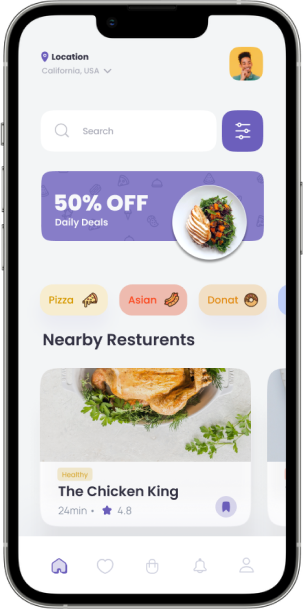
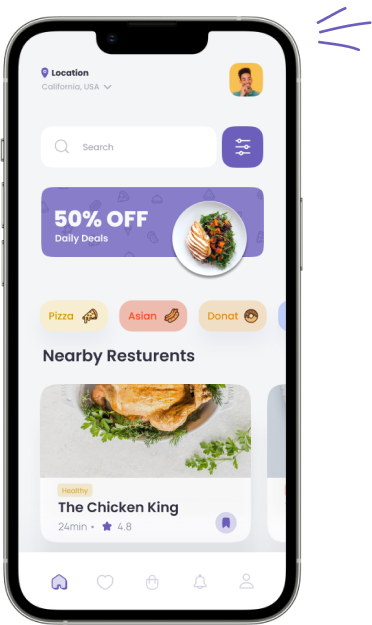
ts-2 hero pp done

diff --git a/t-one/src/components/molecules/AppTextBlock/AppTextBlock.tsx b/t-one/src/components/molecules/AppTextBlock/AppTextBlock.tsx
@@ -7,8 +7,15 @@ import Arrow_Image from "../../../assets/images/svgs/app_arrow.svg";
 
 const AppTextBlock = () => {
     return (
-        <div className={styles.container}>
-            <Title text={'Premium\u00A0Quality For\u00A0Your\u00A0Health'} selectStart={8} selectEnd={14} />
+        <div className={styles['app_text_block']}>
+            <Title
+                text={'Premium\u00A0Quality For\u00A0Your\u00A0Health'}
+                selectStart={8}
+                selectEnd={14}
+                fontWeight={700}
+                fontSize={50}
+                lineHeight={58}
+            />
             <div className={styles['list_wrapper']}>
                 <List texts={[
                     'Premium quality food is made with ingredients that are packed with essential vitamins, minerals.',
@@ -16,7 +23,7 @@ const AppTextBlock = () => {
                 ]} />
             </div>
             <div className={styles['button_wrapper']}>
-                <Button text={'Download'} type={ButtonType.Primary} />
+                <Button text={'Download'} type={ButtonType.Primary} needArrow={true} />
                 <img
                     src={Arrow_Image}
                     alt="Grapefruit slice atop a pile of other slices"

diff --git a/t-one/src/components/organisms/AppBlock/AppBlock.tsx b/t-one/src/components/organisms/AppBlock/AppBlock.tsx
@@ -1,22 +1,15 @@
 import AppTextBlock from '../../molecules/AppTextBlock/AppTextBlock'
 import styles from './AppBlock.module.css'
 import Phone_Image from "../../../assets/images/pngs/mobile_phone.png";
-import PhoneRays_Image from "../../../assets/images/svgs/phone_rays.svg";
 
 const AppBlock = () => {
     return (
-        <div className={styles.container}>
+        <div className={styles['app_block']}>
             <div className={styles['images']}>
 
                 <div className={styles['images_phone']}>
                     <img
                         src={Phone_Image}
-                        alt="Grapefruit slice atop a pile of other slices"
-                    />
-                </div>
-                <div className={styles['images_rays']}>
-                    <img
-                        src={PhoneRays_Image}
                         alt="Grapefruit slice atop a pile of other slices"
                     />
                 </div>

diff --git a/t-one/src/components/atoms/Title/Title.module.scss b/t-one/src/components/atoms/Title/Title.module.scss
@@ -1,11 +1,4 @@
-@font-face {
-    font-family: 'Poppins';
-    font-style: normal;
-    font-weight: 600;
-    font-display: swap;
-    src: url(../../../assets/fonts/poppins_semibold.woff2) format('woff2');
-    unicode-range: U+0000-00FF, U+0131, U+0152-0153, U+02BB-02BC, U+02C6, U+02DA, U+02DC, U+0304, U+0308, U+0329, U+2000-206F, U+2074, U+20AC, U+2122, U+2191, U+2193, U+2212, U+2215, U+FEFF, U+FFFD;
-}
+@import url('https://fonts.googleapis.com/css2?family=Poppins:ital,wght@0,400;0,500;0,600;0,700;1,100;1,400;1,500;1,600;1,700&family=Public+Sans:wght@400..900&display=swap');
 
 .title_font {
     font-family: "Poppins", sans-serif;
@@ -33,7 +26,7 @@ span {
     }
 }
 
-$weights: 100, 200, 300, 400, 500, 600;
+$weights: 100, 200, 300, 400, 500, 600, 700;
 
 @each $size in $weights {
     .fw_#{$size} {

diff --git a/t-one/src/components/atoms/Button/Button.tsx b/t-one/src/components/atoms/Button/Button.tsx
@@ -1,5 +1,6 @@
 import ButtonType, { ButtonProps } from "../../../types/ButtonProps";
 import styles from "./Button.module.css";
+import ButtonImage from '../../../assets/images/pngs/btn_arrow.png'
 
 const Button = (props: ButtonProps) => {
     const typeMap = (type: ButtonType): string => {
@@ -11,8 +12,9 @@ const Button = (props: ButtonProps) => {
     };
 
     return (
-        <button className={`${styles.button} ${typeMap(props.type)}`}>
+        <button className={`${styles['button']} ${typeMap(props.type)}`}>
             {props.text}
+            {props.needArrow && <img className={styles['btn_icon']} src={ButtonImage} alt="" />}
         </button>
     );
 };

diff --git a/t-one/src/components/atoms/List/List.tsx b/t-one/src/components/atoms/List/List.tsx
@@ -2,15 +2,13 @@ import styles from './List.module.css'
 
 const List = (props: { texts: string[] }) => {
     return (
-        <div>
-            <ul className={styles.list}>
-                {props.texts.map(text =>
-                    <li className={styles['list-item']} key={text}>
-                        {text}
-                    </li>
-                )}
-            </ul>
-        </div>
+        <ul className={styles.list}>
+            {props.texts.map(text =>
+                <li className={styles['list-item']} key={text}>
+                    {text}
+                </li>
+            )}
+        </ul>
     )
 }
 

diff --git a/t-one/src/components/molecules/HeroTextBlock/HeroTextBlock.tsx b/t-one/src/components/molecules/HeroTextBlock/HeroTextBlock.tsx
@@ -27,8 +27,8 @@ const HeroTextBlock = () => {
             </div>
 
             <div className={styles["cta_buttons"]}>
-                <Button text={"Get Started"} type={ButtonType.Primary} />
-                <Button text={"Go Pro"} type={ButtonType.Ghost} />
+                <Button text={"Get Started"} type={ButtonType.Primary} needArrow={false} />
+                <Button text={"Go Pro"} type={ButtonType.Ghost} needArrow={false} />
             </div>
 
             <div className={styles['before_wrapper']}>

diff --git a/t-one/src/components/atoms/List/List.module.css b/t-one/src/components/atoms/List/List.module.css
@@ -10,7 +10,12 @@
 .list {
     display: flex;
     flex-direction: column;
-    row-gap: 28px;
+    row-gap: 26px;
+    list-style: inside;
+}
+
+.list>li::marker {
+    content: '•';
 }
 
 .list-item {
@@ -18,7 +23,10 @@
     font-size: 20px;
     font-weight: 400;
     line-height: 31px;
-    letter-spacing: 0px;
+    letter-spacing: -0.005em;
     text-align: left;
     color: #676767;
+    padding-inline-start: 10px;
+    list-style-position: outside;
+    max-width: 510px;
 }

diff --git a/t-one/src/components/molecules/AppTextBlock/AppTextBlock.module.css b/t-one/src/components/molecules/AppTextBlock/AppTextBlock.module.css
@@ -1,20 +1,22 @@
-.container {
+.app_text_block {
     width: 560px;
     height: 555px;
     display: flex;
     flex-direction: column;
+    padding-top: 90px;
 }
 
 .list_wrapper {
-    margin-top: 66px;
+    margin-top: 67px;
+    padding-left: 19px;
 }
 
 .button_wrapper {
-    margin-top: 42px;
+    margin-top: 63px;
 }
 
-.button_wrapper img {
+button+ img {
     position: relative;
-    top: 70px;
-    right: 30px;
+    top: -8px;
+    left: 160px;
 }

diff --git a/t-one/src/components/organisms/AppBlock/AppBlock.module.css b/t-one/src/components/organisms/AppBlock/AppBlock.module.css
@@ -1,24 +1,17 @@
-.container {
+.app_block {
     display: flex;
     width: 1260px;
     height: 740px;
     align-self: center;
     margin-top: 106px;
     border-bottom: 1px solid #CBCBCB;
+    column-gap: 219px;
 }
 
 .images {
     padding-left: 112px;
-    width: 50%;
 }
 
 .images_phone {
-    padding-top: 10px;
-}
-
-.images_rays {
-    position: relative;
-    width: fit-content;
-    top: -630px;
-    left: 315px;
+    padding-left: 5px;
 }

diff --git a/t-one/src/components/atoms/Button/Button.stories.ts b/t-one/src/components/atoms/Button/Button.stories.ts
@@ -17,13 +17,15 @@ type Story = StoryObj<typeof meta>;
 export const Primary: Story = {
     args: {
         text: "Get started",
-        type: ButtonType.Primary
+        type: ButtonType.Primary,
+        needArrow:true
     },
 };
 
 export const Ghost: Story = {
     args: {
         text: "Go Pro",
-        type: ButtonType.Ghost
+        type: ButtonType.Ghost,
+        needArrow: false
     },
 };

diff --git a/t-one/src/components/atoms/Button/Button.module.css b/t-one/src/components/atoms/Button/Button.module.css
@@ -8,6 +8,8 @@
 }
 
 .button {
+    display: flex;
+    column-gap: 13px;
     font-family: "Poppins", sans-serif;
     font-weight: 500;
     font-style: normal;
@@ -27,4 +29,9 @@
     color: #6C5FBC;
     border-width: 1.5px;
     background-color: #fff;
+}
+
+.btn_icon {
+    width: 26px;
+    height: 26px;
 }

diff --git a/t-one/src/types/ButtonProps.ts b/t-one/src/types/ButtonProps.ts
@@ -5,4 +5,5 @@ export default ButtonType;
 export type ButtonProps = {
     type: ButtonType;
     text: string;
+    needArrow: boolean;
 };
